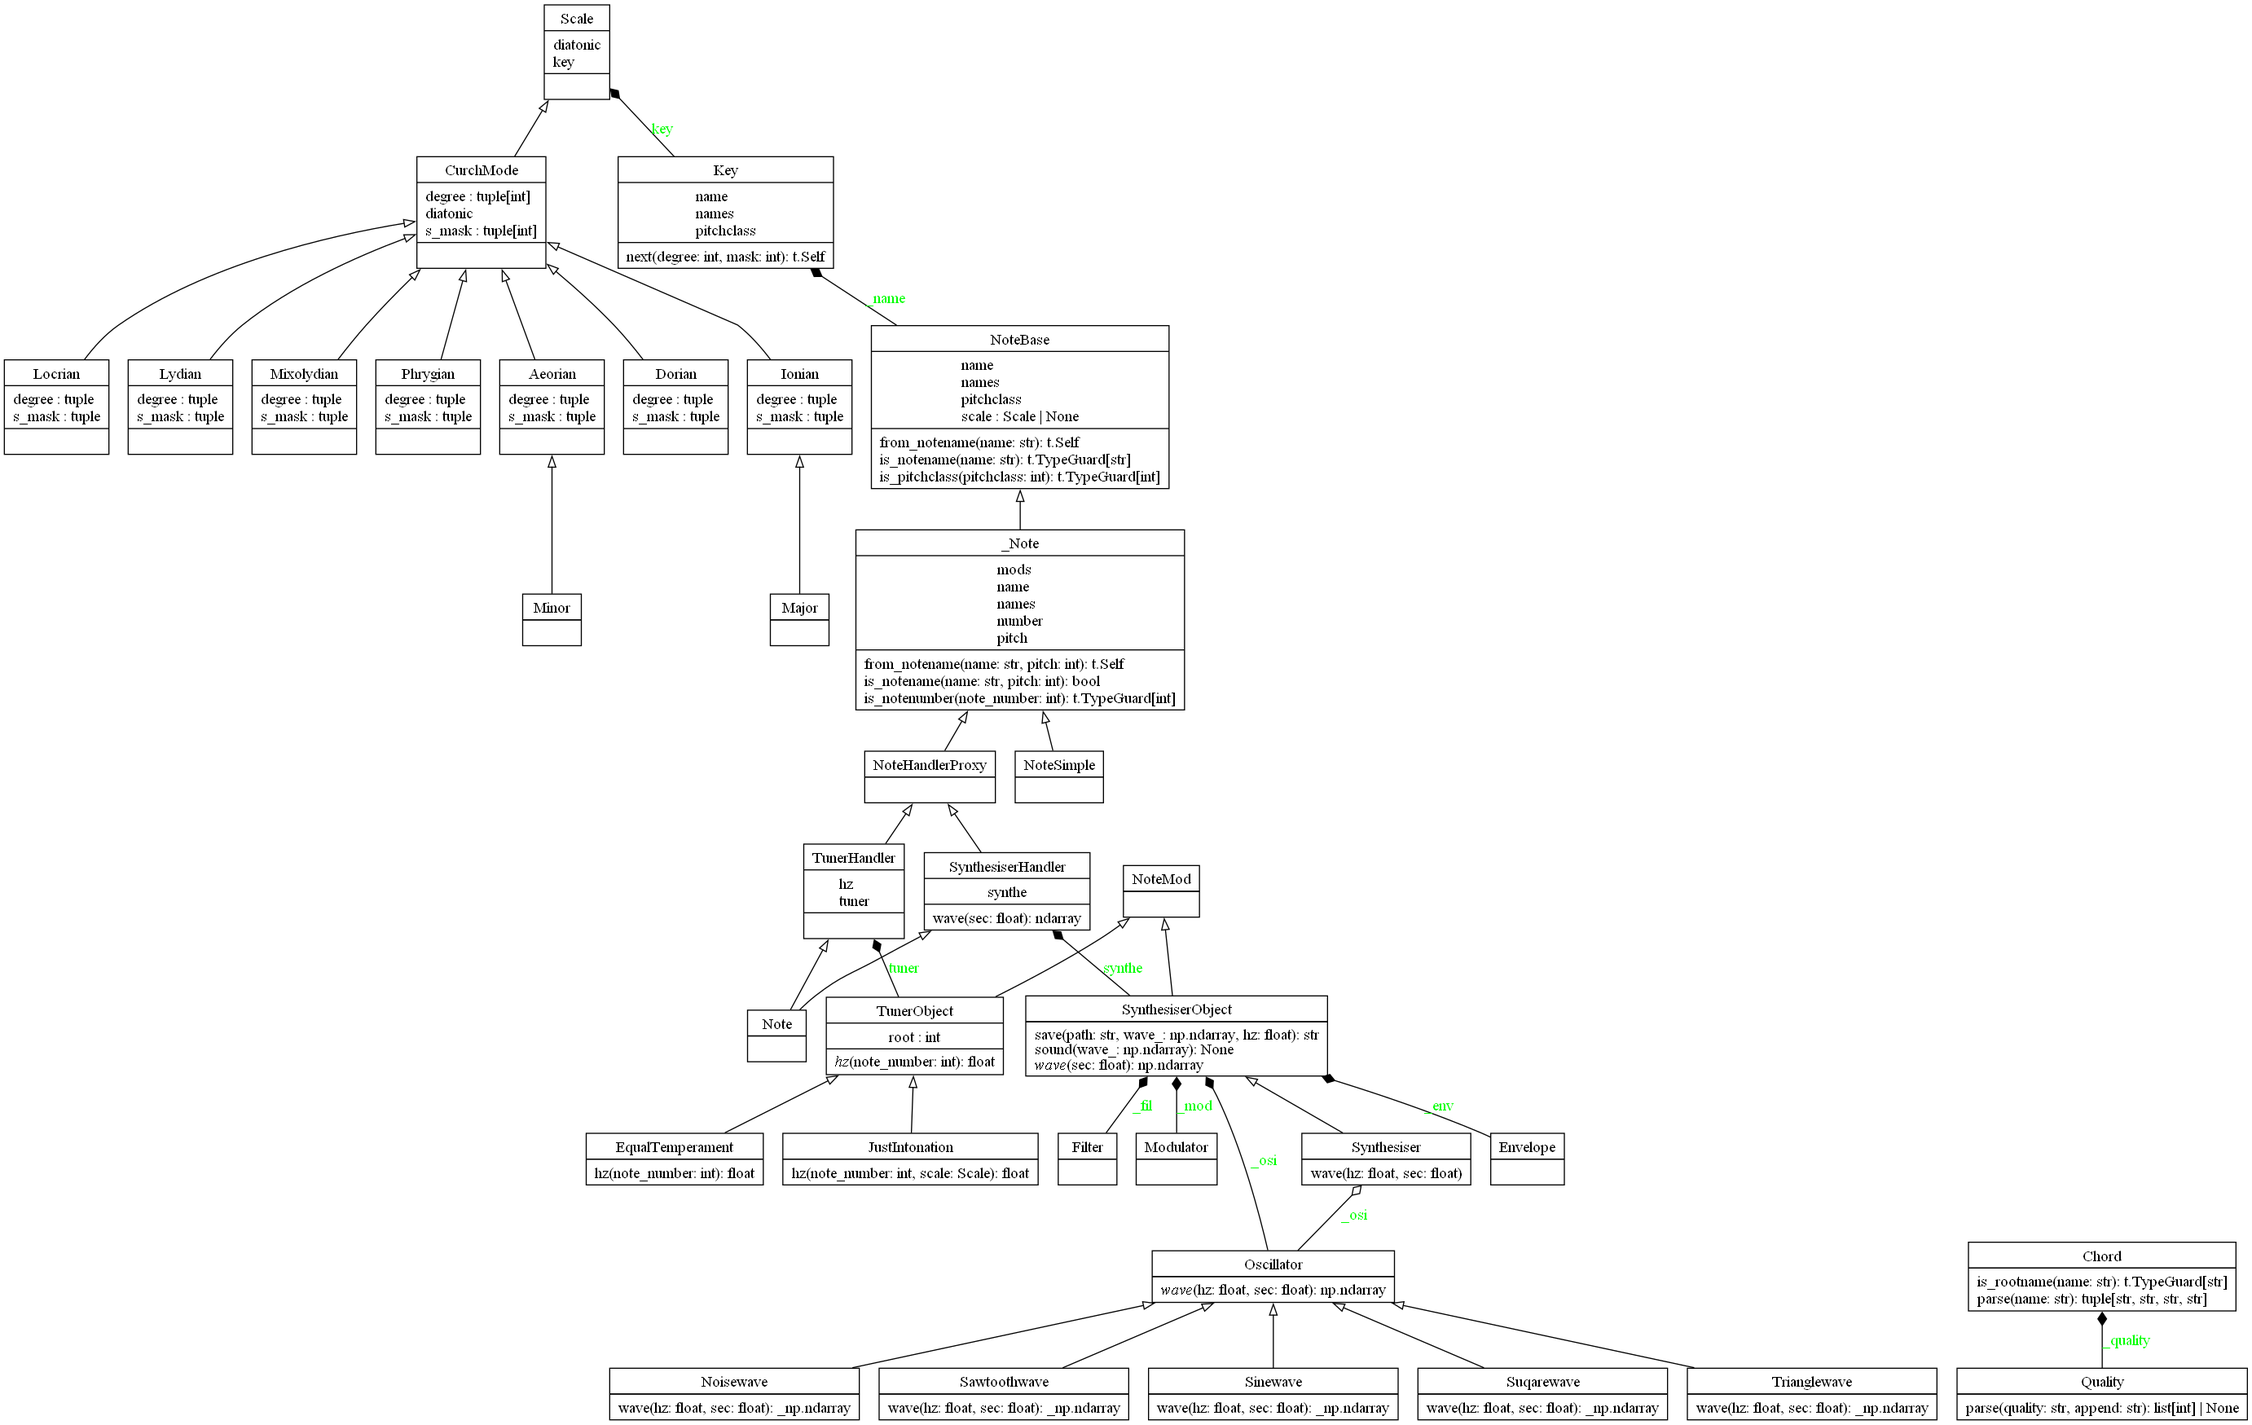
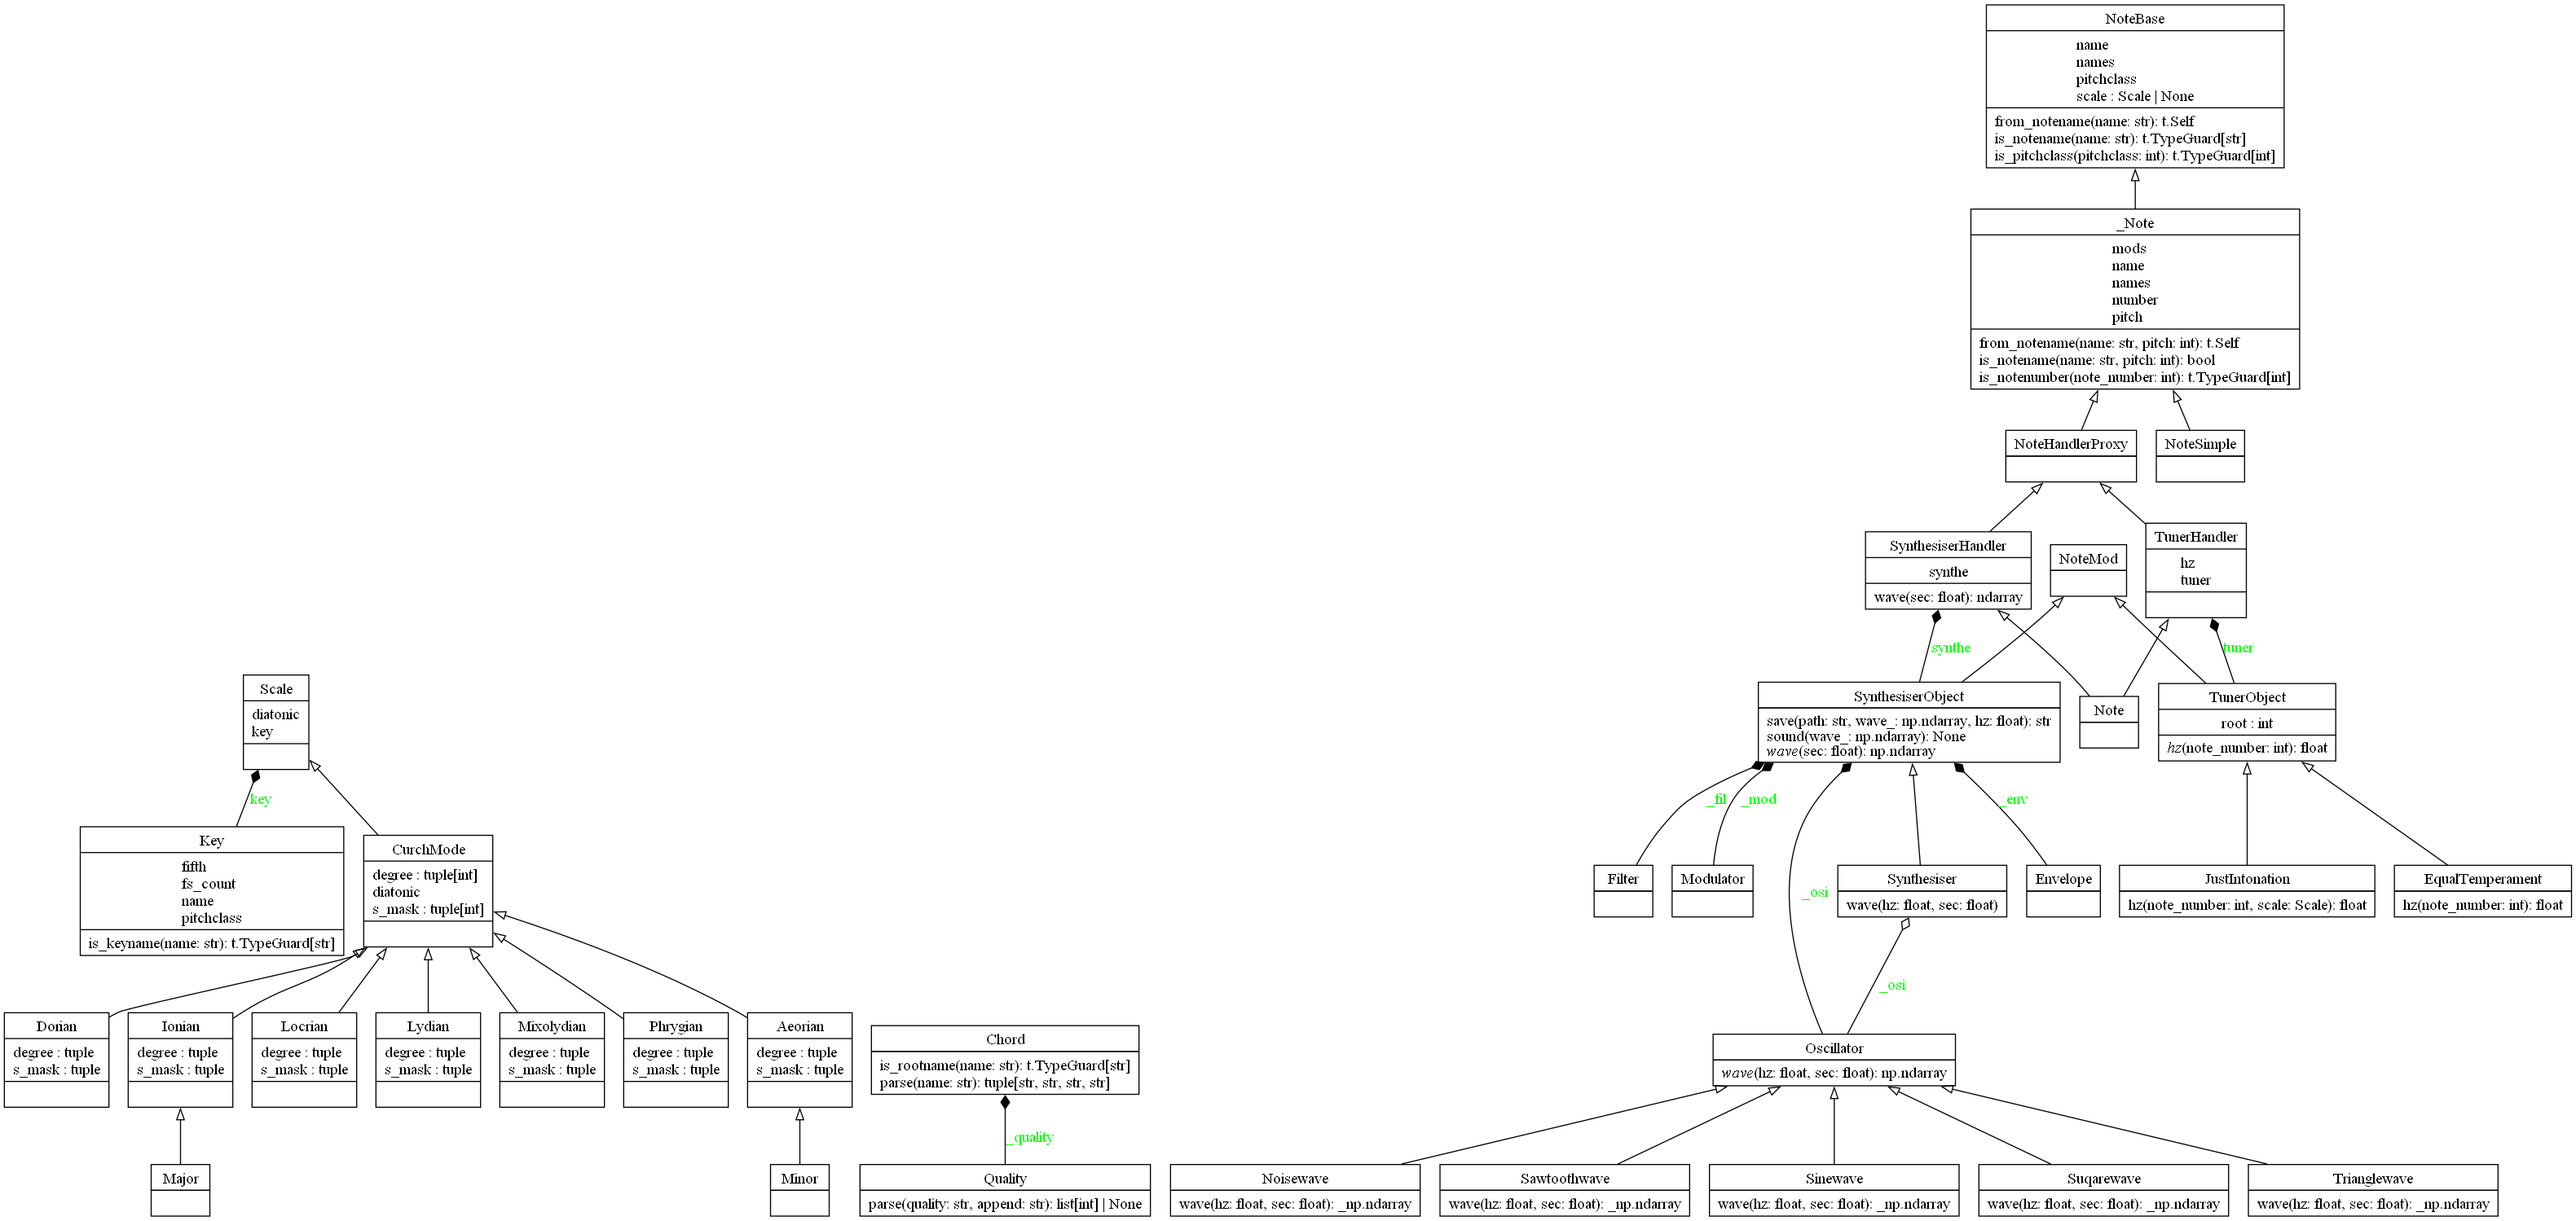
Fixed Key class dependency on NoteBase class

diff --git a/music_theory/note/key.py b/music_theory/note/key.py
@@ -1,35 +1,45 @@
 import typing as t
-from ._note import NoteBase
+from ._statics import NOTENAME_TO_PITCH, PITCH_TO_NOTENAME, ALL_KEYNAME, FIFTH_SEQUENCE
 
 
 class Key:
     
     def __init__(self, name: str) -> None:
 
-        self._name = NoteBase.from_notename(name)
-        self._pos: int = self._name._dict_notenames.index(self.name)
+        if not self.is_keyname(name):
+            raise ValueError()
+
+        self._name  = name
+        self._pitchclass = NOTENAME_TO_PITCH[name]
+
+        self._fifth = FIFTH_SEQUENCE.index(self._pitchclass)
+        self._fs_cnt: int = PITCH_TO_NOTENAME[self._pitchclass].index(self._name) - 2
 
     @property
     def name(self) -> str:
-        return self._name.name
+        return self._name
     
     @property
-    def names(self):
-        return self._name.names
+    def pitchclass(self) -> int:
+        return self._pitchclass
     
     @property
-    def pitchclass(self):
-        return self._name.pitchclass
+    def fifth(self) -> int:
+        return self._fifth
     
-    def next(self, degree: int, mask: int) -> t.Self:
-        name = self._name + degree
-        return self.__class__(name._dict_notenames[mask+2])
+    @property
+    def fs_count(self) -> int:
+        return self._fs_cnt
     
     def __int__(self) -> int:
-        return self._name.pitchclass
+        return self._fifth
     
     def __str__(self) -> str:
-        return "<Key: {}>".format(self._name.name)
+        return "<Key: {}>".format(self._name)
     
     def __repr__(self) -> str:
-        return "<Key: {}>".format(self._name.name)
+        return "<Key: {}>".format(self._name)
+    
+    @classmethod
+    def is_keyname(cls, name: str) -> t.TypeGuard[str]:
+        return isinstance(name, str) and name in ALL_KEYNAME

diff --git a/music_theory/note/scale.py b/music_theory/note/scale.py
@@ -1,15 +1,13 @@
-from .key import Key
 from .abc import Scale
-from ._const import FIFTH_SEQUENCE
+from .key import Key
+from ._note import NoteBase
 
 
 def count_flat_sharp(key: Key) -> int:
-    fs_count = FIFTH_SEQUENCE.index(key.pitchclass)
-    if key.pitchclass == 6:
-        # TODO: key._pos is eq to 2 or 3
-        fs_count = fs_count - 12 if fs_count > int(key._pos == 3) + 5 else fs_count
+    if key.fifth == 6:
+        fs_count = fs_count - 12 if key.fifth > int(key.fs_count == 1) + 5 else key.fifth
     else:
-        fs_count = fs_count - 12 if fs_count > 5 else fs_count
+        fs_count = fs_count - 12 if key.fifth > 5 else key.fifth
     return fs_count
 
 def generate_mask_by_key(fs_count: int) -> list[int]:
@@ -27,17 +25,19 @@ class CurchMode(Scale):
 
     degree: tuple[int]
     s_mask: tuple[int]
-    
 
     @property
-    def diatonic(self):
-        diatonic_ = [ self.key ]
+    def diatonic(self) -> list[NoteBase]:
+        diatonic_ = [ NoteBase.from_notename(self.key.name) ]
         
         fs_count = count_flat_sharp(self.key)
         k_mask = generate_mask_by_key(fs_count)
 
         for n in range(6):
-            diatonic_.append(diatonic_[n].next(self.degree[n], self.s_mask[n+1] + k_mask[n+1]))
+            note = diatonic_[n] + self.degree[n]
+            notename = note._dict_notenames[self.s_mask[n+1] + k_mask[n+1] + 2]
+            diatonic_.append(NoteBase.from_notename(notename))
+        
         return diatonic_
 
 

diff --git a/music_theory/note/_note.py b/music_theory/note/_note.py
@@ -2,7 +2,7 @@ from __future__ import annotations
 
 import typing as t
 from .mod import NoteMod
-from ._const import NOTENAME_TO_PITCH, PITCH_TO_NOTENAME, ALL_NOTENAME
+from ._statics import NOTENAME_TO_PITCH, PITCH_TO_NOTENAME, ALL_NOTENAME
 
 
 class NoteBase:
@@ -49,8 +49,11 @@ class NoteBase:
         return self._pitchclass
     
     def __str__(self) -> str:
-        return "<NoteName: {}>".format(str(self._name))
+        return str(self._name)
     
+    def __repr__(self) -> str:
+        return str(self._name)
+        
     def __setattr__(self, __name: str, __value: t.Any) -> None:
         from .abc import Scale
         if __name == "scale" and isinstance(__value, Scale):

diff --git a/music_theory/note/_statics.py b/music_theory/note/_statics.py
@@ -1,5 +1,3 @@
-from __future__ import annotations
-
 PITCH_TO_NOTENAME: dict[int, tuple[str|None]] = {
     9 : ( "Bbb" , None , "A"  , None , "G##" ),
     10: ( "Cbb" , "Bb" , None , "A#" , None  ),
@@ -26,5 +24,7 @@ NOTENAME_TO_PITCH: dict[str, int] = {
 }
 
 ALL_NOTENAME = tuple(NOTENAME_TO_PITCH.keys())
-ALL_PITCH = tuple(PITCH_TO_NOTENAME.keys())
+ALL_PITCH    = tuple(PITCH_TO_NOTENAME.keys())
+ALL_KEYNAME  = tuple([ n for n in ALL_NOTENAME if len(n) < 3])
+
 FIFTH_SEQUENCE = (0, 7, 2, 9, 4, 11, 6, 1, 8, 3, 10, 5)

diff --git a/music_theory/note/__init__.py b/music_theory/note/__init__.py
@@ -22,8 +22,8 @@ synth
     Provides an array of waveforms for changing tones
 """
 
-from .note import NoteSimple
-from .key import Key, NoteBase
+from .note import NoteSimple, NoteBase
+from .key import Key
 from . import scale
 
 from .mod import NoteMod

diff --git a/run.py b/run.py
@@ -2,4 +2,4 @@
 from music_theory import *
 
 c = Note(84, tuner=tuner.EqualTemperament(440), synthe=synthe.Synthesiser(synthe.osi.Sinewave()))
-c._wave(sound=True)
+print(scale.Locrian("C").diatonic)

diff --git a/music_theory/chord/_const.py b/music_theory/chord/_const.py
@@ -1,5 +1,5 @@
 from __future__ import annotations
-from ..note._const import ALL_NOTENAME
+from ..note._statics import ALL_NOTENAME
 
 NOTE2_QUALITIES = {
     "5":        (0, 7),

diff --git a/music_theory/note/note.py b/music_theory/note/note.py
@@ -1,4 +1,4 @@
-from ._note import _Note
+from ._note import _Note, NoteBase
 
 class NoteSimple(_Note):
     """
